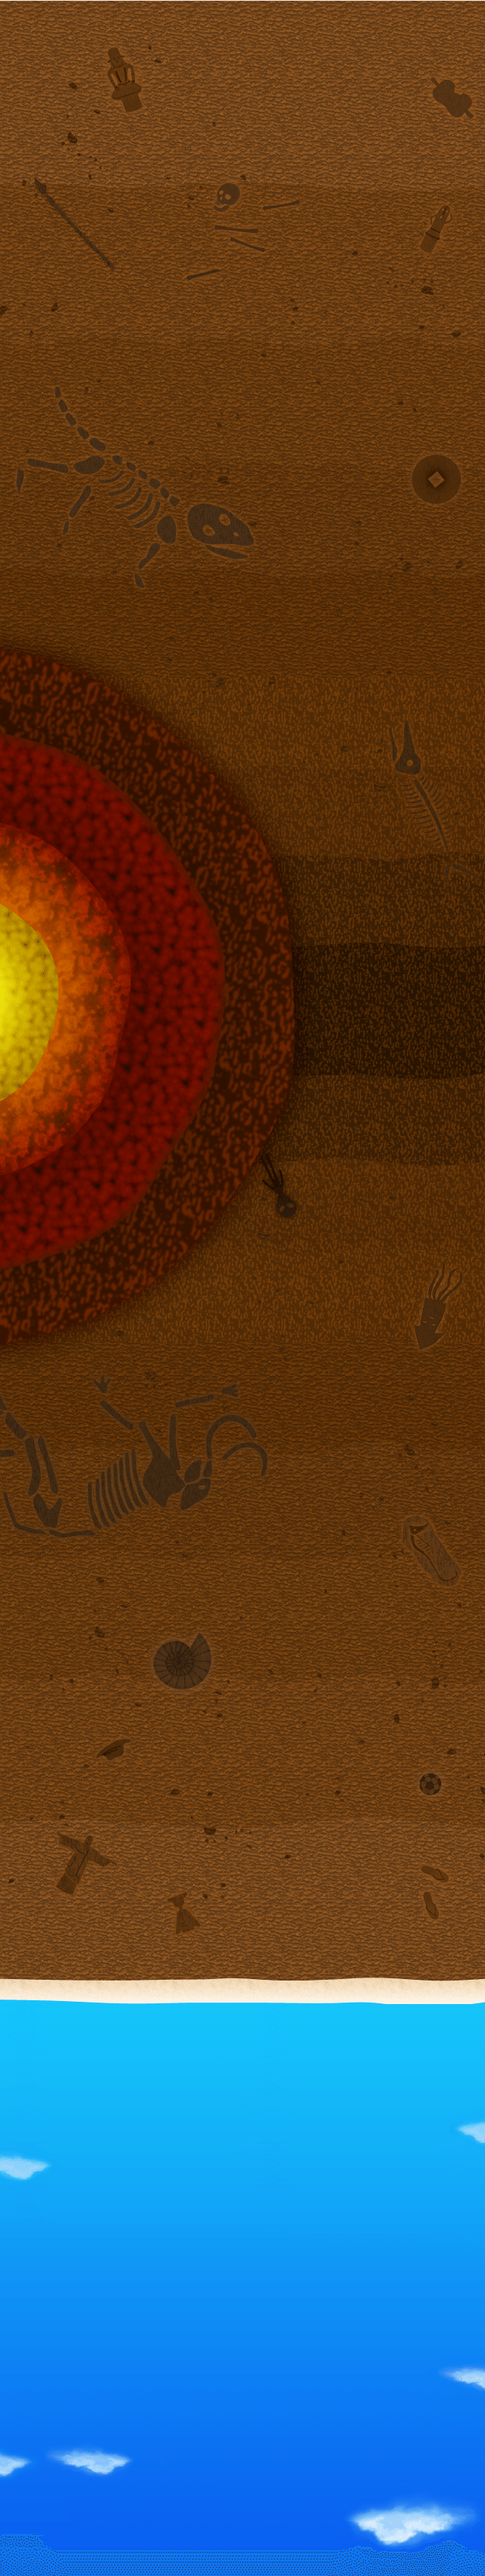
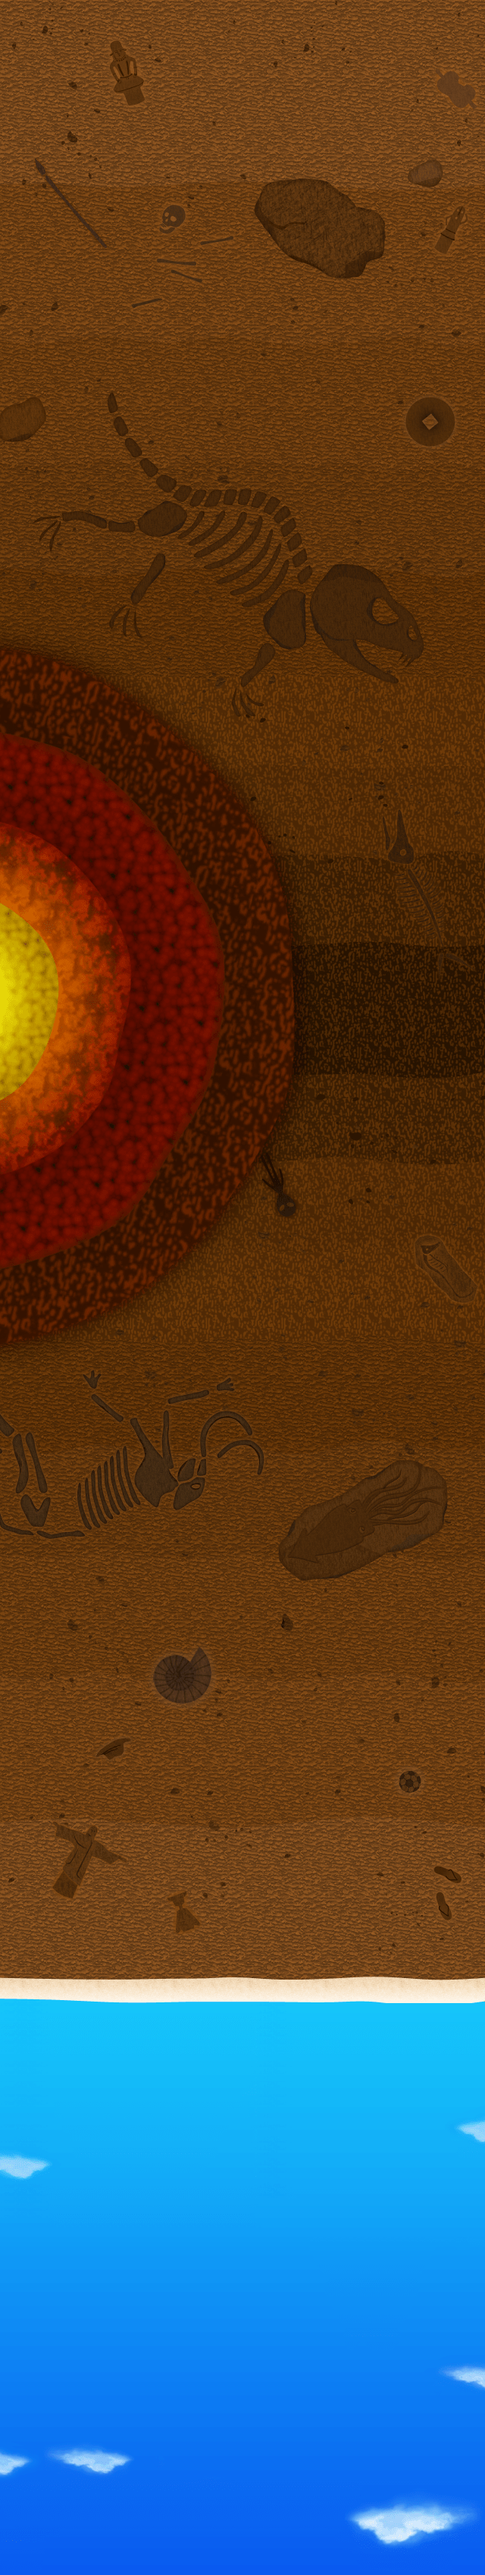
地中キャンバスわけた

diff --git a/js/app.js b/js/app.js
@@ -157,6 +157,7 @@ var Puppet = function(){
 }
 
 Puppet.prototype = {
+  prevY: 0,
   prevStage: null,
   onswitchedY: 0, //stageが切り替わったときのY
 
@@ -170,7 +171,7 @@ Puppet.prototype = {
 
   initialize: function(){
     this.puppet = this.puppetInit();
-    this.counter = this.digcounter(15, this.onUnderground);
+    this.counter = this.digcounter(10, this.onUnderground);
   },
 
   puppetInit: function(){
@@ -243,7 +244,7 @@ Puppet.prototype = {
 
     this.holl = new createjs.BitmapAnimation(hollSpriteSheet);
 
-    this.holl.gotoAndStop("holl");
+    this.holl.gotoAndStop(0);
     this.holl.x = 0;
     this.holl.y = 0;
 
@@ -262,7 +263,7 @@ Puppet.prototype = {
 
   animate: function(stage, obj){
     var
-      method,
+      method, divY=0,
       dict = app.canvasManager.dict,
       stages = stage.concat(),
       y = -obj.y;
@@ -294,46 +295,50 @@ Puppet.prototype = {
       case y < 2300 : method = "swim3";
         stage = dict["c5"];
         break;
-      case y < 3645 : method = "dig";
+      case y < 2500 : method = "dig";
         stage = dict["c6"];
+        divY = 2300;
+        break;
+      case y < 2750 : method = "dig";
+        stage = dict["c7"];
+        divY = 2500;
+        break;
+      case y < 3395 : method = "dig";
+        stage = dict["c8"];
+        divY = 2750;
+        break;
+      case y < 3665 : method = "dig";
+        stage = dict["c9"];
+        divY = 3395;
         break;
       case y < 6000 : method = "out";
-        stage = dict["c7"];
+        stage = dict["c10"];
         break;
       default       : method = "walk";     break;
     }
-/*
-----------------------------------------ソン ↓
-*/
-
-    if (method === "falling3") {
-      stage.addChild(this.water);
-    }
-
-    if (method === "dig") {
-      stage.addChildAt(this.holl, 0);
-    }
-    
-    if(! this.drawHoleFunc) this.drawHoleFunc = this.drawHole();
-    if(! this.drawSambaFunc) {
-      this.drawSambaFunc = this.drawSamba();
-      this.drawSambaFunc(29);
-    }
-
-/*
-----------------------------------------ソン ↑
-*/
-
-
 
     if(stage && this.prevStage != stage){
       stage.addChild(this.sprite);
-      this.onswitchedY = y;
+
+      if (method === "falling3") {
+        stage.addChild(this.water);
+      } else if (method === "dig") {
+        if(! stage.drawHole ) stage.drawHole = this.drawHole(stage, divY);
+        if(this.holl.currentFrame == 0) stage.addChild(this.holl);
+      } else if (method === "out") {
+        this.prevStage.drawHole(this.holl, this.sprite, true);
+      }
+
+      if(! this.drawSambaFunc) {
+        this.drawSambaFunc = this.drawSamba();
+        this.drawSambaFunc(29);
+      }
     }
     //console.log(y, method, dict);
 
-    this[method](y, stage);
+    this[method](y, stage, divY, y-this.prevY > 0);
     this.prevStage = stage;
+    this.prevY = y;
   },
 
   walk: function(y){
@@ -367,7 +372,7 @@ Puppet.prototype = {
 
     this.sprite.x =460; 
     this.sprite.y = -60 + step *2;
-    this.sprite.gotoAndStop(8 + ( step /15 | 0 )%2);
+    this.sprite.gotoAndStop(8 + ( step /10 | 0 )%2);
   },
   falling3: function(y){
     var step = (y-1200)/3 | 0;
@@ -426,13 +431,13 @@ Puppet.prototype = {
 
     this.counter();
   },
-  dig: function(y, stage){
-    var step = (y-2300)
+  dig: function(y, stage, divY, downward){
+    var step = (y-divY)
     this.sprite.x = 30;
     this.sprite.y = (-60 + 2*step);
     this.sprite.gotoAndStop(16+ ( step /20 | 0 )%2);
 
-    this.drawHoleFunc(this.holl, this.sprite);
+    if(downward) stage.drawHole(this.holl, this.sprite);
     this.holl.x = this.sprite.x;
 
   },
@@ -447,7 +452,6 @@ Puppet.prototype = {
       this.sprite.y = 100;
     }
 
-    this.drawHoleFunc(this.holl, this.sprite);
     this.sprite.gotoAndStop(frame > 27 ? 27 : frame);
 
     if( y > 3750 ) {
@@ -458,15 +462,12 @@ Puppet.prototype = {
     }
 
     var opacity = ( step / 100);
-    opacity = opacity > 1 ? 1 : opacity;
-    $('.kakao').css({
-      'opacity' : opacity
-    });
+    if(app.kakao.css("opacity") <= 1) app.kakao.css({ 'opacity' : opacity <=1 ? opacity:1 });
 
   },
 
   drawSamba: function (){
-    var stage = app.canvasManager.dict["c7"];
+    var stage = app.canvasManager.dict["c10"];
     var samba = this.sprite.clone();
     stage.addChild(samba);
     samba.x = 300;
@@ -478,24 +479,31 @@ Puppet.prototype = {
     
   },
 
-  drawHole: function(){
+  drawHole: function(stage, y){
     var g = new createjs.Graphics();
     var s = new createjs.Shape(g);
-    var stage = app.canvasManager.dict["c6"];
 
     stage.addChildAt(s, 0);
     
-    return function(holl, sprite){
-      if(sprite.y < 2540){
-        this.holl.gotoAndStop(0);
-        holl.y = sprite.y + 50;
+    return function(holl, sprite, endFlg){
+      var h = sprite.y + 50;
+
+      if(h < s.h) return;
+
+      if(y < 3390 || sprite.y < 600){
+        holl.y = h;
+        g.clear();
         g.beginBitmapFill(img);
-        g.drawRect (0,0, 60, sprite.y + 50);
-      } else {
-        this.holl.gotoAndStop(1);
-        holl.y = 2590;
+        g.drawRect (0,0, 60, h);
+        s.h = h;
+      }
+      if(endFlg){
+        if (y > 3390 ){
+          holl.gotoAndStop(1);
+          holl.y = 510;
+        }
         g.beginBitmapFill(img);
-        g.drawRect (0,0, 60, 2590);
+        g.drawRect (0,0, 60, 530);
       }
     }
   }
@@ -517,6 +525,8 @@ App.prototype = {
     this.scrollManager = scrollManager;
     this.canvasManager = canvasManager;
     this.puppet = puppet;
+
+    this.kakao = $('.kakao');
   }
 
 }

diff --git a/index.html b/index.html
@@ -58,15 +58,30 @@
         </div>
       </div><!-- bnr-->
 
-      <div class="bnr bnr07 underground">
+      <div class="bnr bnr070 underground">
         <div class="bnr-inner"> 
-          <canvas id="bnr-canvas07" class="bnr-canvas ratio2" width="120" height="2750" style="width:60px;height:1375px;"></canvas>
+          <canvas id="bnr-canvas070" class="bnr-canvas ratio2" width="120" height="244" style="width:60px;height:122;"></canvas>
+        </div>
+      </div><!-- bnr-->
+      <div class="bnr bnr071 underground">
+        <div class="bnr-inner"> 
+          <canvas id="bnr-canvas071" class="bnr-canvas ratio2" width="120" height="380" style="width:60px;height:190px;"></canvas>
+        </div>
+      </div><!-- bnr-->
+      <div class="bnr bnr072 underground">
+        <div class="bnr-inner"> 
+          <canvas id="bnr-canvas072" class="bnr-canvas ratio2" width="120" height="1100" style="width:60px;height:550px;"></canvas>
+        </div>
+      </div><!-- bnr-->
+      <div class="bnr bnr073 underground">
+        <div class="bnr-inner"> 
+          <canvas id="bnr-canvas073" class="bnr-canvas ratio2" width="120" height="600" style="width:60px;height:300px;"></canvas>
         </div>
       </div><!-- bnr-->
       
       <div class="bnr bnr08 underground">
         <div class="bnr-inner"> 
-          <canvas id="bnr-canvas08" class="bnr-canvas ratio2" width="649" height="800" style="width:320px;height:400px;"></canvas>
+          <canvas id="bnr-canvas08" class="bnr-canvas ratio2" width="649" height="360" style="width:320px;height:180px;"></canvas>
         </div>      
         <div class="kakao">
           <p><img src="img/kakao.png" alt=""></p>

diff --git a/css/style.css b/css/style.css
@@ -152,8 +152,20 @@ img {
   top: 2234px;
 }
 
-.bnr.bnr07{
+.bnr.bnr070{
   top: 2563px;
+  left: 215px;
+}
+.bnr.bnr071{
+  top: 2745px;
+  left: 215px;
+}
+.bnr.bnr072{
+  top: 3000px;
+  left: 215px;
+}
+.bnr.bnr073{
+  top: 3600px;
   left: 215px;
 }
 
@@ -201,7 +213,6 @@ canvas {
 --------------------------------------------------------------*/
 .kakao {
   text-align: center;
-  margin-top: -220px;
   opacity: 0;
 }
 .kakao p{
